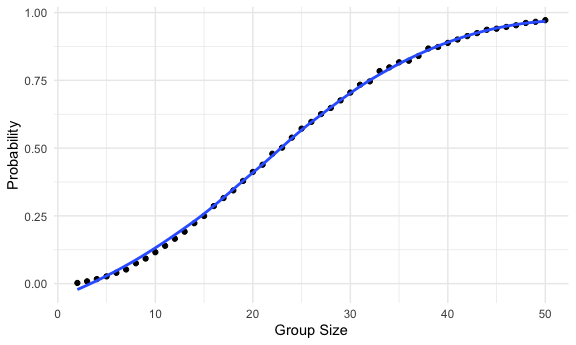
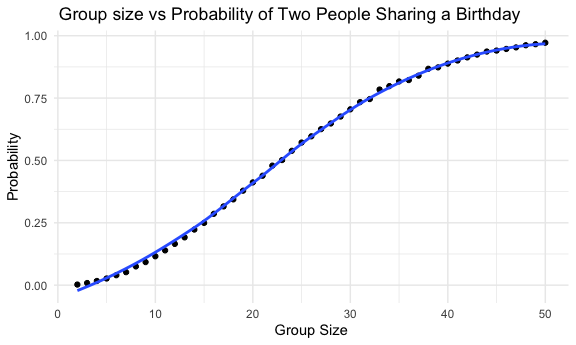
Minor changes to code and descriptions

diff --git a/p8105_hw5_kr3145.md b/p8105_hw5_kr3145.md
@@ -88,6 +88,7 @@ sim_results_df |>
   geom_point() +
   geom_smooth(se = FALSE) +
   labs(
+    title = " Group size vs Probability of Two People Sharing a Birthday",
     x = "Group Size",
     y = "Probability"
   ) 
@@ -99,16 +100,18 @@ sim_results_df |>
 
 The plot shows that as the group size increases, the probability that at
 least 2 people in the group will share a birthday will also increase.
-The increase starts to plateau slightly as it gets to group size of 50.
+The increase starts to plateau slightly as it gets closer to group size
+of 50. At group size of 23, the probability that at least 2 people in
+the group will share a birthday is 50%.
 
 ## Problem 2
 
-Create function for running t-test for means 0 to 6
+Create function for running t-test for various means
 
 ``` r
 t_test_fctn = function(m) {
   
-  num_vec = rnorm(30, m, sd = 5)
+  num_vec = rnorm(30, mean = m, sd = 5)
   
   t_test = t.test(num_vec, mu = 0)
   
@@ -117,7 +120,7 @@ t_test_fctn = function(m) {
 }
 ```
 
-Run simulation 5000 times, pulling estimate and p-value
+Run simulation 5000 times for mean 0 to 6, pulling estimate and p-value
 
 ``` r
 sim_results_2_df = 
@@ -133,7 +136,7 @@ sim_results_2_df =
   select(mean:p.value)
 ```
 
-Plot \#1
+Plot 1: Showing Effect Size and Power
 
 ``` r
 sim_results_2_df |> 
@@ -148,6 +151,7 @@ sim_results_2_df |>
   geom_point() +
   geom_smooth(se = FALSE) +
   labs(
+    title = "Effect Size vs Power",
     x = "Effect Size",
     y = "Power"
   ) 
@@ -161,7 +165,7 @@ The plot shows that as effect size increases, power increases. However,
 the increase does plateau at effect size of 4, where the power maintains
 consistent at a value of 1.
 
-Dataframe with average estimate of sample mean for all samples
+Create dataframe with average estimate of sample mean for all samples
 
 ``` r
 all_results_df = 
@@ -236,10 +240,11 @@ homicide_df =
 
 The raw data of `homicide_df` contains 52179 observations representing
 each criminal homicide in 50 of the largest American cities. Demographic
-information of victims, including `victim_last`, `victim_first`,
-`victim_race`, `victim_age`, and `victim_sex`, are included. `city`,
-`state`, `lat`, and `long` represent the location of homicide.
-`disposition` represents how the homicide case was concluded.
+information of victims’ names, race, age, and sex, represented by
+`victim_last`, `victim_first`, `victim_race`, `victim_age`, and
+`victim_sex`, are included. `city`, `state`, `lat`, and `long` represent
+the location of homicide. `disposition` represents how the homicide case
+was concluded.
 
 Create city_state variable
 
@@ -251,7 +256,7 @@ homicide_df =
   )
 ```
 
-Summarize to obtain total homicides and unresolved homicdites per city
+Summarize to obtain total homicides and unresolved homicides per city
 
 ``` r
 homicide_summary = 
@@ -263,14 +268,19 @@ homicide_summary =
     )
 ```
 
-Baltimore, MD
+Run prop.test for Baltimore, MD only
 
 ``` r
 baltimore_hom = 
   homicide_summary |> 
   filter(city_state == "Baltimore, MD") |> 
   with(prop.test(unsolved_hom, total_hom))
+```
 
+Pull estimate and confidence interval of the proportion of homicides
+that are unsolved for Baltimore, MD only
+
+``` r
 baltimore_hom |> 
   broom::tidy() |> 
   select(estimate, conf.low, conf.high) |> 
@@ -281,7 +291,8 @@ baltimore_hom |>
 |---------:|---------:|----------:|
 |    0.646 |    0.628 |     0.663 |
 
-All cities
+Run prop.test to pull estimates and confidence intervals of the
+proportion of homicides that are unsolved for all cities
 
 ``` r
 homicide_prop_conf = 
@@ -359,7 +370,7 @@ homicide_prop_conf |>
 | Tulsa, OK          |    0.331 |    0.293 |     0.371 |
 | Washington, DC     |    0.438 |    0.411 |     0.465 |
 
-Create a plot
+Create a plot that shows the estimates and CIs for each city
 
 ``` r
 homicide_prop_conf |> 
@@ -377,4 +388,4 @@ homicide_prop_conf |>
   ) 
 ```
 
-<img src="p8105_hw5_kr3145_files/figure-gfm/unnamed-chunk-18-1.png" width="90%" />
+<img src="p8105_hw5_kr3145_files/figure-gfm/unnamed-chunk-19-1.png" width="90%" />
